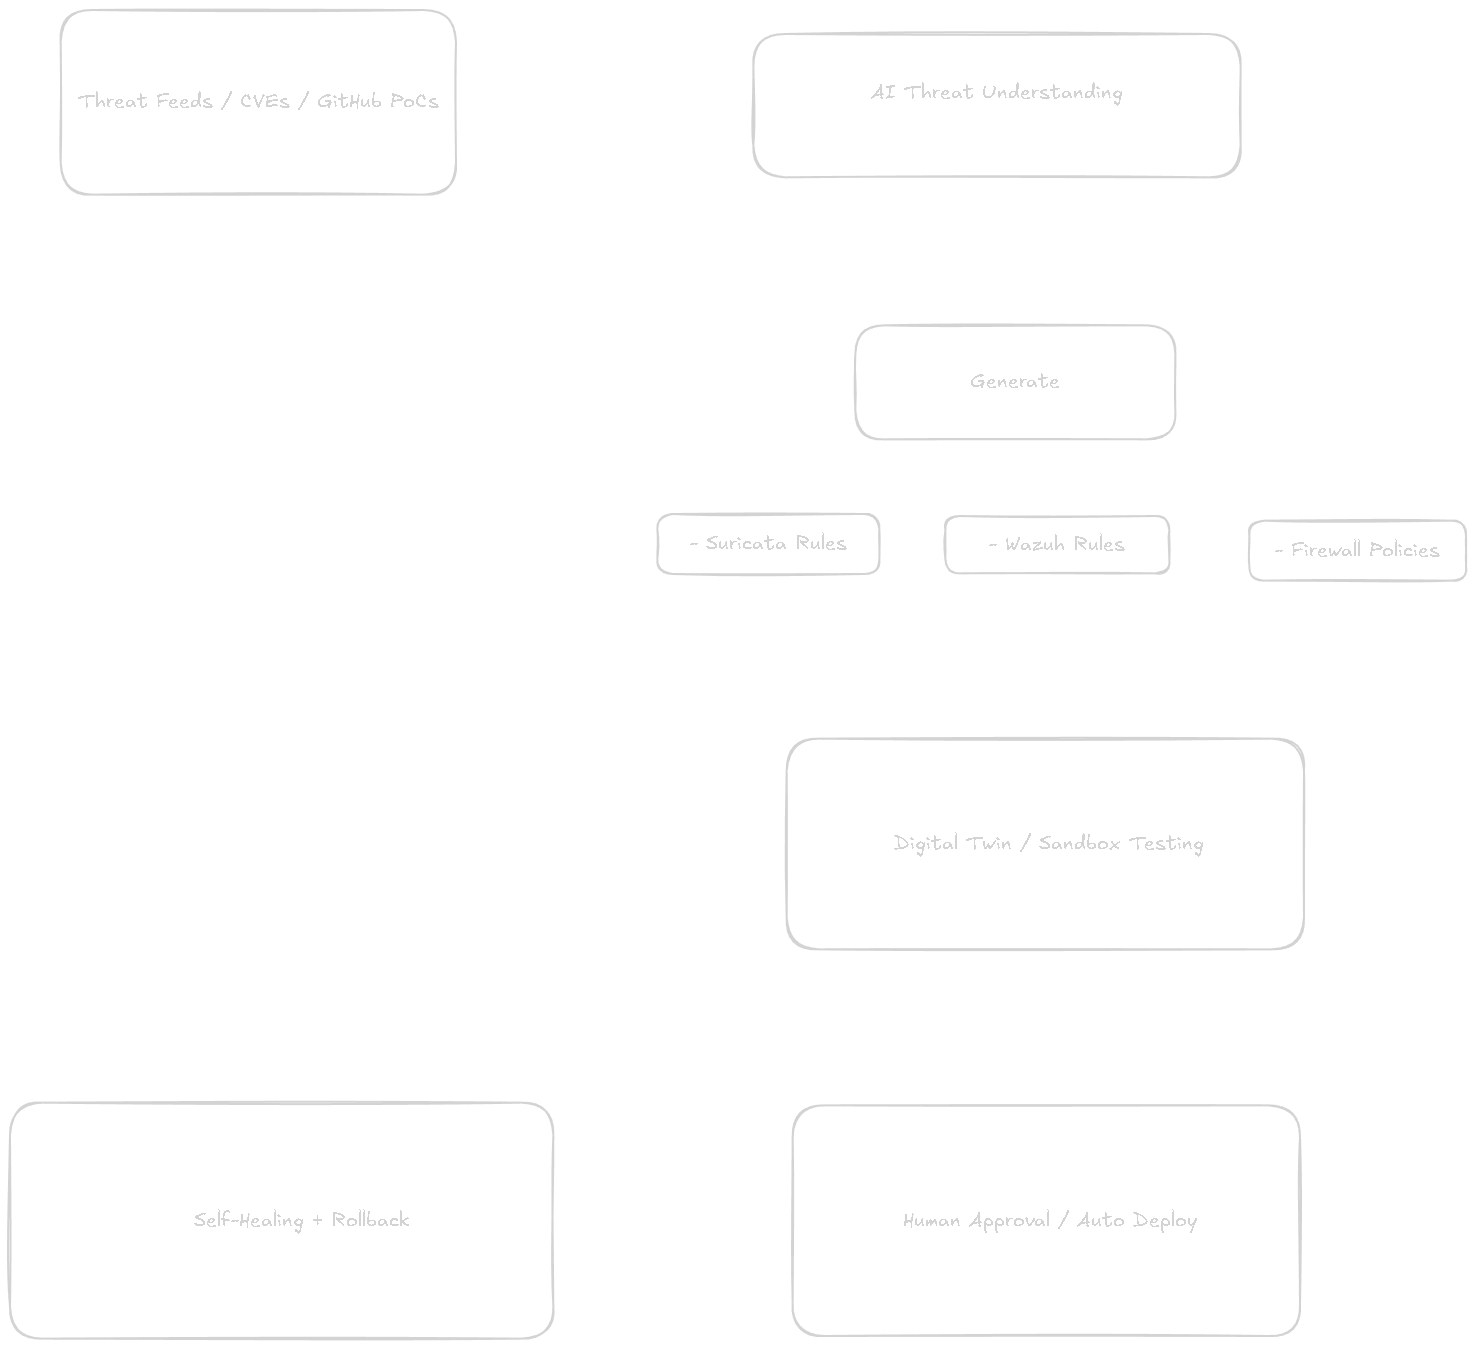
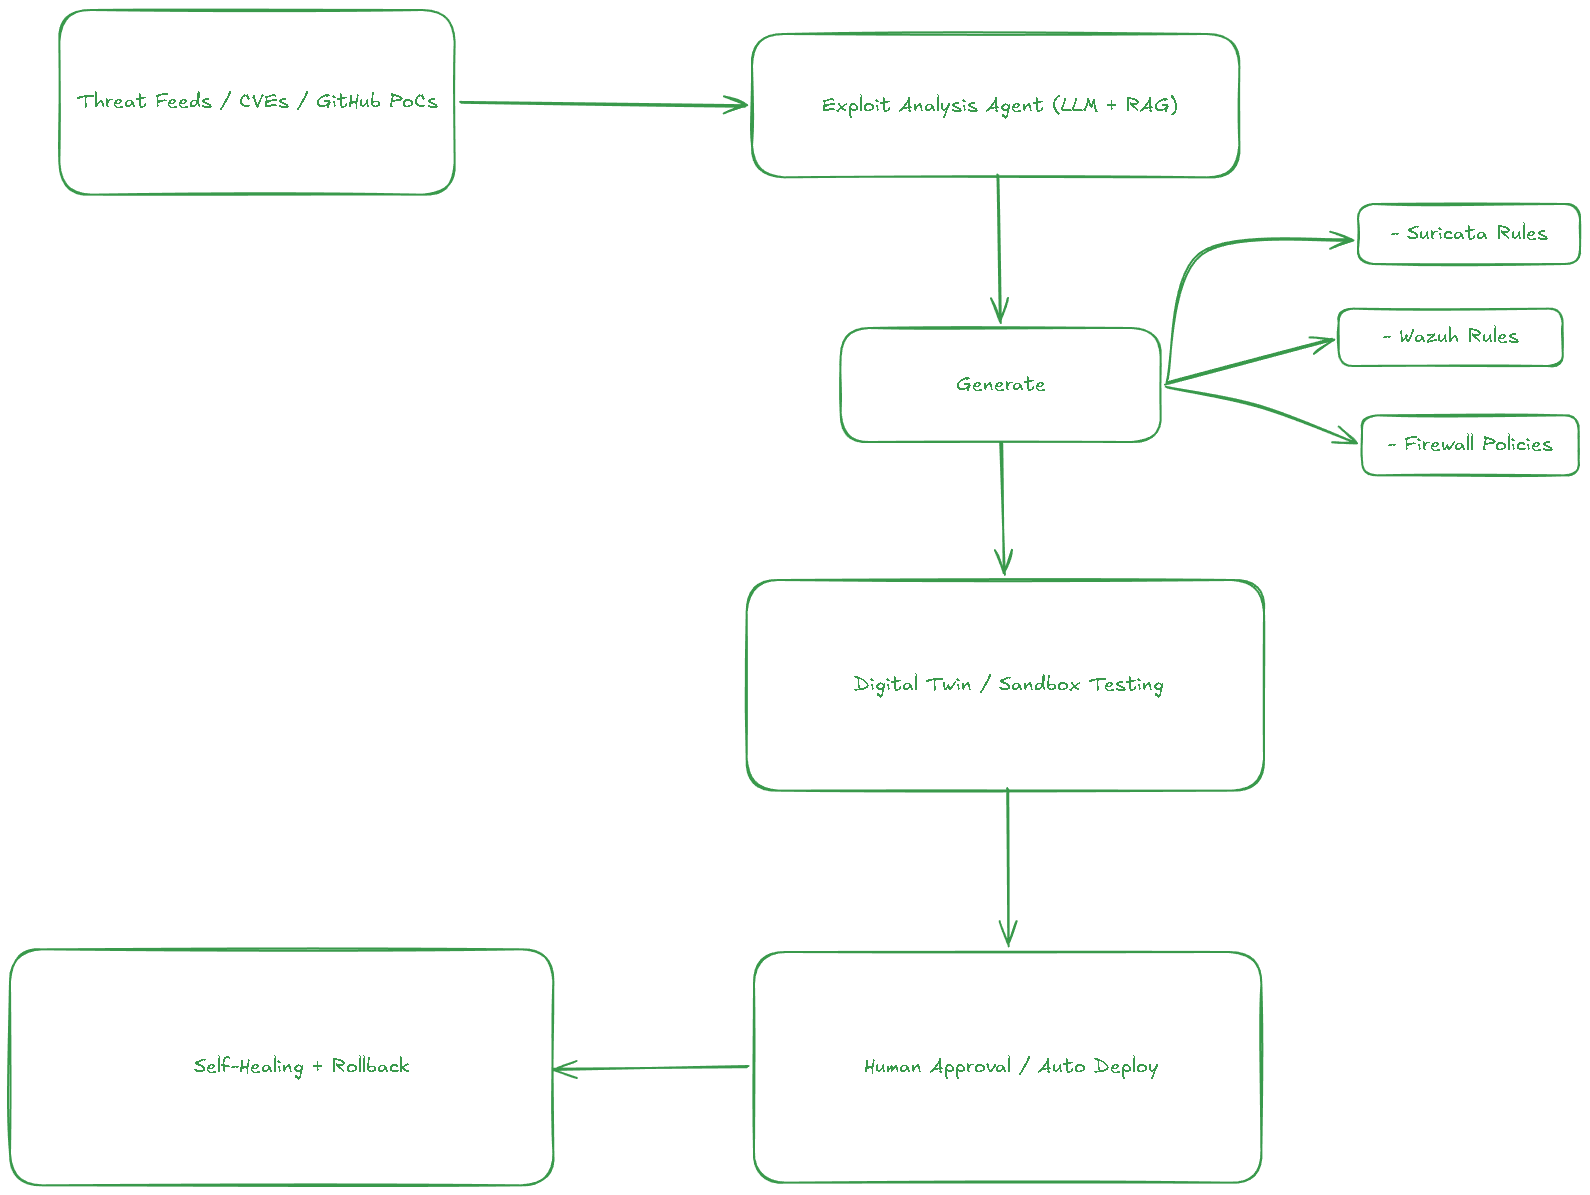
vault backup: 2026-04-21 09:04:19

diff --git a/Excalidraw/Drawing 2026-04-21 08.54.18.excalidraw.md b/Excalidraw/Drawing 2026-04-21 08.54.18.excalidraw.md
@@ -12,8 +12,7 @@ tags: [excalidraw]
 ## Text Elements
 Threat Feeds / CVEs / GitHub PoCs ^GahhDX0Y
 
-AI Threat Understanding
- ^hrZ6NlD2
+ Exploit Analysis Agent (LLM + RAG) ^hrZ6NlD2
 
 Generate ^YLv2Pjon
 
@@ -34,62 +33,96 @@ Generate ^YLv2Pjon
 ```compressed-json
[1 lines of base64/hex data omitted]
 
[2 lines of base64/hex data omitted]
 
[2 lines of base64/hex data omitted]
 
[2 lines of base64/hex data omitted]
 
[2 lines of base64/hex data omitted]
 
[2 lines of base64/hex data omitted]
 
[2 lines of base64/hex data omitted]
 
[2 lines of base64/hex data omitted]
 
[2 lines of base64/hex data omitted]
 
[2 lines of base64/hex data omitted]
 
[2 lines of base64/hex data omitted]
 
[2 lines of base64/hex data omitted]
 
[2 lines of base64/hex data omitted]
 
[2 lines of base64/hex data omitted]
 
[2 lines of base64/hex data omitted]
 
[2 lines of base64/hex data omitted]
 
[2 lines of base64/hex data omitted]
 
[2 lines of base64/hex data omitted]
 
[2 lines of base64/hex data omitted]
 
[2 lines of base64/hex data omitted]
 
[2 lines of base64/hex data omitted]
 
[2 lines of base64/hex data omitted]
 
[2 lines of base64/hex data omitted]
 
[2 lines of base64/hex data omitted]
 
[2 lines of base64/hex data omitted]
 
[2 lines of base64/hex data omitted]
 
[2 lines of base64/hex data omitted]
 
[2 lines of base64/hex data omitted]
 
[2 lines of base64/hex data omitted]
 
[2 lines of base64/hex data omitted]
+
[1 lines of base64/hex data omitted]
+
[1 lines of base64/hex data omitted]
+
[1 lines of base64/hex data omitted]
+
[1 lines of base64/hex data omitted]
+
[1 lines of base64/hex data omitted]
+
[1 lines of base64/hex data omitted]
+
[1 lines of base64/hex data omitted]
+
[1 lines of base64/hex data omitted]
+
[1 lines of base64/hex data omitted]
+
[1 lines of base64/hex data omitted]
+
[1 lines of base64/hex data omitted]
+
[1 lines of base64/hex data omitted]
+
[1 lines of base64/hex data omitted]
+
[1 lines of base64/hex data omitted]
+
[1 lines of base64/hex data omitted]
+
[1 lines of base64/hex data omitted]
+
[1 lines of base64/hex data omitted]
 ```
 %%
